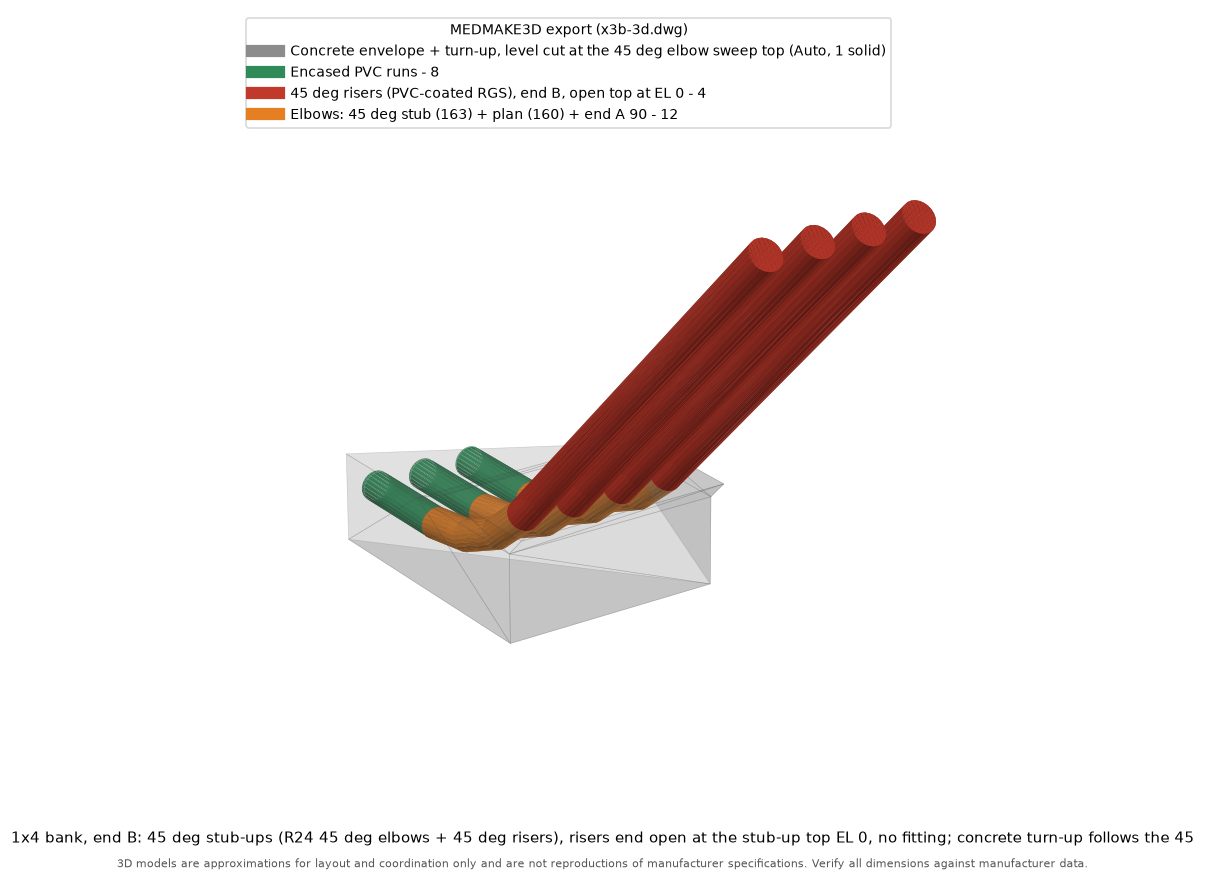
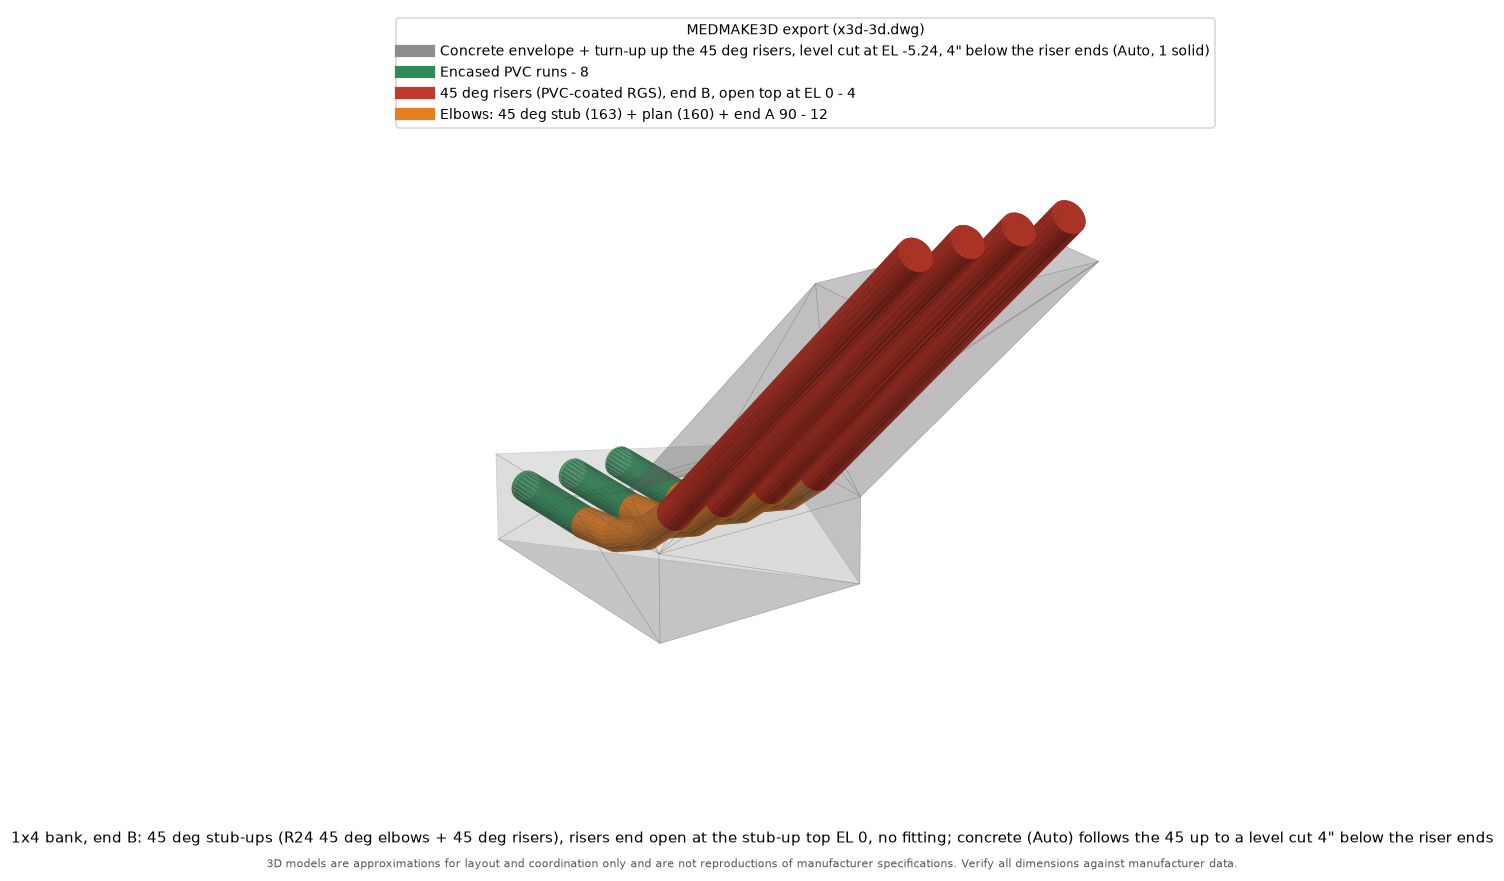
Ductbank MVP4d: 45 deg stub-up Encasement Auto runs up to the Top limit (Clint)
At 45 deg stub-up ends, Auto now turns the concrete up the risers to the Top limit (riser end low edge less _DBKRISERPROJ, level cut); 90 deg ends keep Auto = top of the elbow sweep. LISP only (MED-DotNet.dll untouched; dialog hint/preview wording noted for the next DLL batch). DBEDIT re-solves existing 45 deg Auto banks to the new height. Updated Auto wording (summary, DBLIST, -DUCTBANK ENcasement prompt, med.spc), docs, tests (Auto-at-45 exact projection check, -Route Old4c: f1d7184-built bank + DBEDIT). Full headless suite 29/29 pass; MEDMAKE3D 1x4 45 Auto: 33 solids, envelope top EL -5.24.

diff --git a/docs/ductbank.md b/docs/ductbank.md
@@ -36,7 +36,7 @@ The defaults handle everything else:
 | Transition | 60" |
 | Stub-up material | PVC-coated RGS |
 | Stub-up angle | 90 at both ends (45 = 45 deg stub elbows and risers, open riser top) |
-| Stub-up encasement | Auto (top of the elbow sweep), top cut level at least 4" below the riser ends |
+| Stub-up encasement | Auto: top of the elbow sweep at 90 deg ends, up the risers to 4" below their ends at 45 deg ends; top always cut level at least 4" below the riser ends |
 | 3D model layer | `3DMEDModel-Ductbank`, 75 % transparent |
 | Concrete at bends | Chamfer (straight faces, cover kept) |
 | Route rises | Flex (no fitting) up to 5 deg over at least 120", stock vertical bends above that |
@@ -64,7 +64,7 @@ The defaults handle everything else:
 At each stub-up end, the concrete turns up around the stub elbows and risers. It is part of the bank, not a separate pour:
 
 - **Encasement top EL** (dialog, Stub-up zone) or `-DUCTBANK` Options > ENcasement:
-  - **Auto** (default): the top of the highest stub elbow sweep (the end of the R24 / R36 bend). For the 3" sample that is EL -18.5.
+  - **Auto** (default): at a 90 deg end, the top of the highest stub elbow sweep (the end of the R24 / R36 bend; EL -18.5 for the 3" sample). At a 45 deg end (Clint, Oct 7), the same height as Top: the concrete runs up the 45 deg risers to just below their ends (EL -5.24 for 3" risers ending at EL 0). `DBEDIT` rebuilds existing 45 deg banks set to Auto to the new height.
   - **Top**: the stub-up top EL (grade) less the riser projection (`_DBKRISERPROJ`, default 4"). At a 45 deg end the riser end is cut square to the 45, so its low edge is OD/2 x sin 45 below the top EL (1.24" for 3") and the cut goes that much lower again.
   - **an elevation**: any value up to that limit. Higher values are cut at the limit, with a flag (`End B: stub-up encasement EL 0.00 would leave the risers less than 4.00" above the concrete ...: concrete cut level at EL -4.00`). A value below the sweep top is accepted with a flag (the elbow tops are not encased). A value at or below the trunk top means no turn-up (flag).
 - **Level top, below the conduit ends (Clint, Oct 7):** the top of the turn-up is always a level cut, parallel to grade, and always at least `_DBKRISERPROJ` below the lowest point of the riser ends, whatever the setting. 4" clears a threaded RGS coupling (about 2" to 3.4" long for 2" to 4" conduit), so the next coupling or fitting can be made up without chipping concrete. Set `_DBKRISERPROJ` in med.spc, or with `-DUCTBANK` Options > ENcasement (second prompt); the bank stores it (`RISERPROJ`) and `DBEDIT` keeps it. Banks built before this rule are cut level when `DBEDIT` rebuilds them.
@@ -117,10 +117,10 @@ A bank (usually a single row) can come up at 45 deg instead of turning straight 
 - **Open end, no fitting:** the riser ends open at the stub-up top EL (a note in the checks says so). Fittings at stub-ups (BUBs etc.) will be a later option or a separate command.
 - **BOM:** 45 deg stub elbows are PVC-coated RGS 163 / 164 / 165 (R24 / R36 / R48) or plain RGS 167 / 168 / 169, plus the riser conduit.
 - **Multi-row:** allowed. Checks flag 45 deg risers whose clear gap is under the minimum gap (they would collide).
-- **Concrete:** the turn-up follows the 45 as a band with the end cover on both sides of the elbows and risers, cut level (parallel to grade) at the encasement top: the top of the 45 deg elbow sweep (Auto), or up to `_DBKRISERPROJ` below the low edge of the riser ends (Top). The trunk end face below is at the outer cover of the elbows at the trunk top; the back face is chamfered on the 45 like the 90 deg turn-up. Cover is sized off the primary conduit OD.
+- **Concrete:** the turn-up follows the 45 as a band with the end cover on both sides of the elbows and risers, cut level (parallel to grade) `_DBKRISERPROJ` (4") below the low edge of the riser ends. That is both Auto and Top at a 45 deg end; a typed elevation can stop it lower. The trunk end face below is at the outer cover of the elbows at the trunk top; the back face is chamfered on the 45 like the 90 deg turn-up. Cover is sized off the primary conduit OD.
 - **Banks built with BUBs (MVP4, e91df9d):** `DBEDIT` rebuilds them without the BUBs (the command line says how many were removed) and purges the `DBK_BUB` stand-in block. `DBDELETE` removes them with the rest of the bank. `DBLIST` notes the old BUBs until the bank is rebuilt.
 
-![3D: 45 deg stub-ups, open riser tops](images/ductbank-3d-45-stubup.png)
+![3D: 45 deg stub-ups, open riser tops, concrete (Auto) cut level 4" below the riser ends](images/ductbank-3d-45-stubup.png)
 
 ## Route rises and elevation changes
 
@@ -209,7 +209,7 @@ Every variable has a default in code. `med.spc` only overrides it.
 | Variable | Default | Meaning |
 | --- | --- | --- |
 | `_DBKUSEDIALOG` | 1 | 0 makes `DUCTBANK` always use the command line |
-| `_DBKENCASE` | `"Auto"` | Stub-up encasement top: `"Auto"` (top of the elbow sweep), `"Top"` (stub-up top EL less the riser projection) or an elevation; always cut level below the riser ends |
+| `_DBKENCASE` | `"Auto"` | Stub-up encasement top: `"Auto"` (top of the elbow sweep at 90 deg ends; the Top limit at 45 deg ends), `"Top"` (stub-up top EL less the riser projection) or an elevation; always cut level below the riser ends |
 | `_DBKRISERPROJ` | 4.0 | Minimum riser projection above the level top of the turn-up (45 deg ends: from the low edge of the slanted riser end) |
 | `_DBKLAYERTRANS` | 75 | Transparency (%) of `3DMEDModel-Ductbank` when created (or still 0 from an earlier build); 0 = leave the layer alone |
 | `_DBKREFSIZE` | 4.0 | Plain route reference: default reference conduit size (the last value used wins) |
@@ -252,7 +252,8 @@ The summary shows `Ductbank elbow:` and `3D model layer:` lines.
 | `-Sweep` | Options > Bends > Sweep (the old swept concrete) |
 | `-Route S45` | 1x4 bank on the sample, end B 45 deg stub-ups: no BUB anywhere, no BUBS key; every riser starts at its stub point / top EL and runs at 45 deg; 45 deg stub elbows (163); flags; BOM (no code 94) |
 | `-Route S45x2` | the 2x4 sample with end B 45 deg: the riser clear-gap flag and the open-end note |
-| `-Route S45 -Enc Top` | Clint's case: end B 45 deg turn-up cut level 4" below the riser ends' low edge (EL -5.24), corners on the riser cover lines |
+| `-Route S45 -Enc Top` | Clint's case: end B 45 deg turn-up cut level 4" below the riser ends' low edge (EL -5.24), corners on the riser cover lines (plain `-Route S45` now gives the same at end B, since 45 deg Auto = Top) |
+| `-Route Old4c` | a 1x4 45 deg Auto bank built with the f1d7184 code (end B turn-up at the elbow sweep top, EL -40.97), then `-DBEDIT` with the current code: end B rebuilt to EL -5.24 |
 | `-Route OldBub` | builds a 1x4 45 deg bank with the e91df9d (MVP4, BUB) code, loads the current code and runs `-DBEDIT`: the BUBs and the `DBK_BUB` block are gone, member counts drop by the BUB count |
 | `-Route OldBubDel` | the same old bank, then `DBDELETE`: nothing of the bank (BUBs included) is left |
 | `-Route Slope` | plain 3DPOLY with a 1.5 deg grade over 120 ft (flex 4 deg / 120"): 2 flex points, no vertical fittings, 29 stations, slab cover |

diff --git a/docs/design/ductbank-mvp-notes.md b/docs/design/ductbank-mvp-notes.md
@@ -241,3 +241,13 @@ Clint tested fea5b40 (screenshot: a 45 deg turn-up running up the riser to an an
 Results (accoreconsole, all 0 failed): default / `-Enc -30` / `-Rgs` / `-Enc 0` / `-Lay old` / `-Lay user` 37, `-Enc Top` 39, `-Plain` 38, `-Edit` 62, `-Plain -Edit` 63, `-Size 4` 35, `-Plain -Size 4` 36, `-Sweep` 36, `-Sweep -Edit` 60, `-Enc Top -Proj 6 -Edit` 66, `-Route S45` 50 (`-Edit` 88), `-Route S45x2` 51 (`-Edit` 90), `-Route S45 -Enc Top` 53 (`-Proj 6 -Edit` 94), `-Route S45x2 -Enc Top` 54, `-Route Slope` 49 (`-Edit` 85), `-Route Step` 46 (`-Edit` 79), `OldBub` 40, `OldBubDel` 5. Cover minimums unchanged: 2.000 at the chamfer faces and at the 45 deg band (Top), 2.069 (3") / 2.142 (4") at the 90 deg turn-ups with Auto, 2.000 with Top. S45 Top: end A cut at EL -4.00, end B (45) at EL -5.24 (riser low edge -1.24 less 4").
 
 MEDMAKE3D (scripted AutoCAD 2024): S45 Top 33 solids (ENVELOPE 1, bbox top EL -4.00 = end A cut), S45 Auto 33, Slope 86, Step 122; `Conduit bodies: 0`; disclaimer printed each run. Images: `docs/images/ductbank-45-levelcut-side.png`, `docs/images/ductbank-3d-45-levelcut.png`; `ductbank-3d-45-stubup.png` re-rendered (Auto).
+
+## MVP4d (2026-10-07): 45 deg Auto encasement runs up to the Top limit (LISP only)
+
+Clint's decision on f1d7184: at 45 deg stub-up ends, Encasement Auto runs the concrete up to the Top limit (riser end low edge minus `_DBKRISERPROJ`, level cut). Auto at 90 deg ends stays at the top of the elbow sweep.
+
+- **p3 `dbk-enc-end`:** Auto at a 45 deg end = the limit (same as Top). 90 deg ends unchanged. `DBEDIT` re-solves from the stored `ENCH`, so existing 45 deg banks set to Auto rebuild to the new height (`-Route Old4c`: built with f1d7184 at EL -40.97, rebuilt to EL -5.24).
+- **Wording (LISP):** `dbk-enclabel` "Auto = elbow sweep top at 90 deg ends, just below the riser ends at 45 deg ends" (command-line summary, DBLIST, dialog Envelope summary lines); `-DUCTBANK` Options > ENcasement prompt; `_DBKENCASE` comment; `*DBK-VERSION*` 2026-10-07 MVP4d.
+- **No DLL change** (no AutoCAD restart): `MED-DotNet.dll` / `MedDuctbankForm.cs` untouched. The dialog's Envelope (last check) box shows the LISP solve, so the turn-up EL there is right after Check. Still DLL-side and to fix in the next DLL batch: `EncRel` uses the elbow sweep for Auto at both angles, so the hint line under Encasement top EL ("Auto = top of the elbow sweep (EL x) ... Turn-up to EL y") and the cheat-image turn-up height show the sweep top for a 45 deg Auto end. Patch: in `EncRel`, `else v = sweep;` -> `else v = Is45(endA) ? lim : sweep;`; hint "Auto = top of the elbow sweep" -> "Auto = top of the elbow sweep at 90 deg ends (EL x), just below the riser ends at 45 deg ends"; Help item 6 the same.
+- **Tests:** `dbkt-levelcut` also checks the exact projection for Auto at 45 deg ends; new `-Route Old4c` (f1d7184-built bank + `-DBEDIT`).
+- **Results:** full headless suite 29/29 runs, 0 failures (r1-r15, S45 / S45x2 Auto and Top, Slope, Step, DBEDIT round trips, OldBub, OldBubDel, Old4c). MEDMAKE3D (full AutoCAD) on the 1x4 45 deg Auto case: 33 solids (8 runs, 4 risers end A, 4 45 deg risers, 12 elbows, 4 spacers, 1 envelope), envelope top EL -5.237 (level cut 4" below the riser ends' low edge EL -1.24), 0 flagged.
